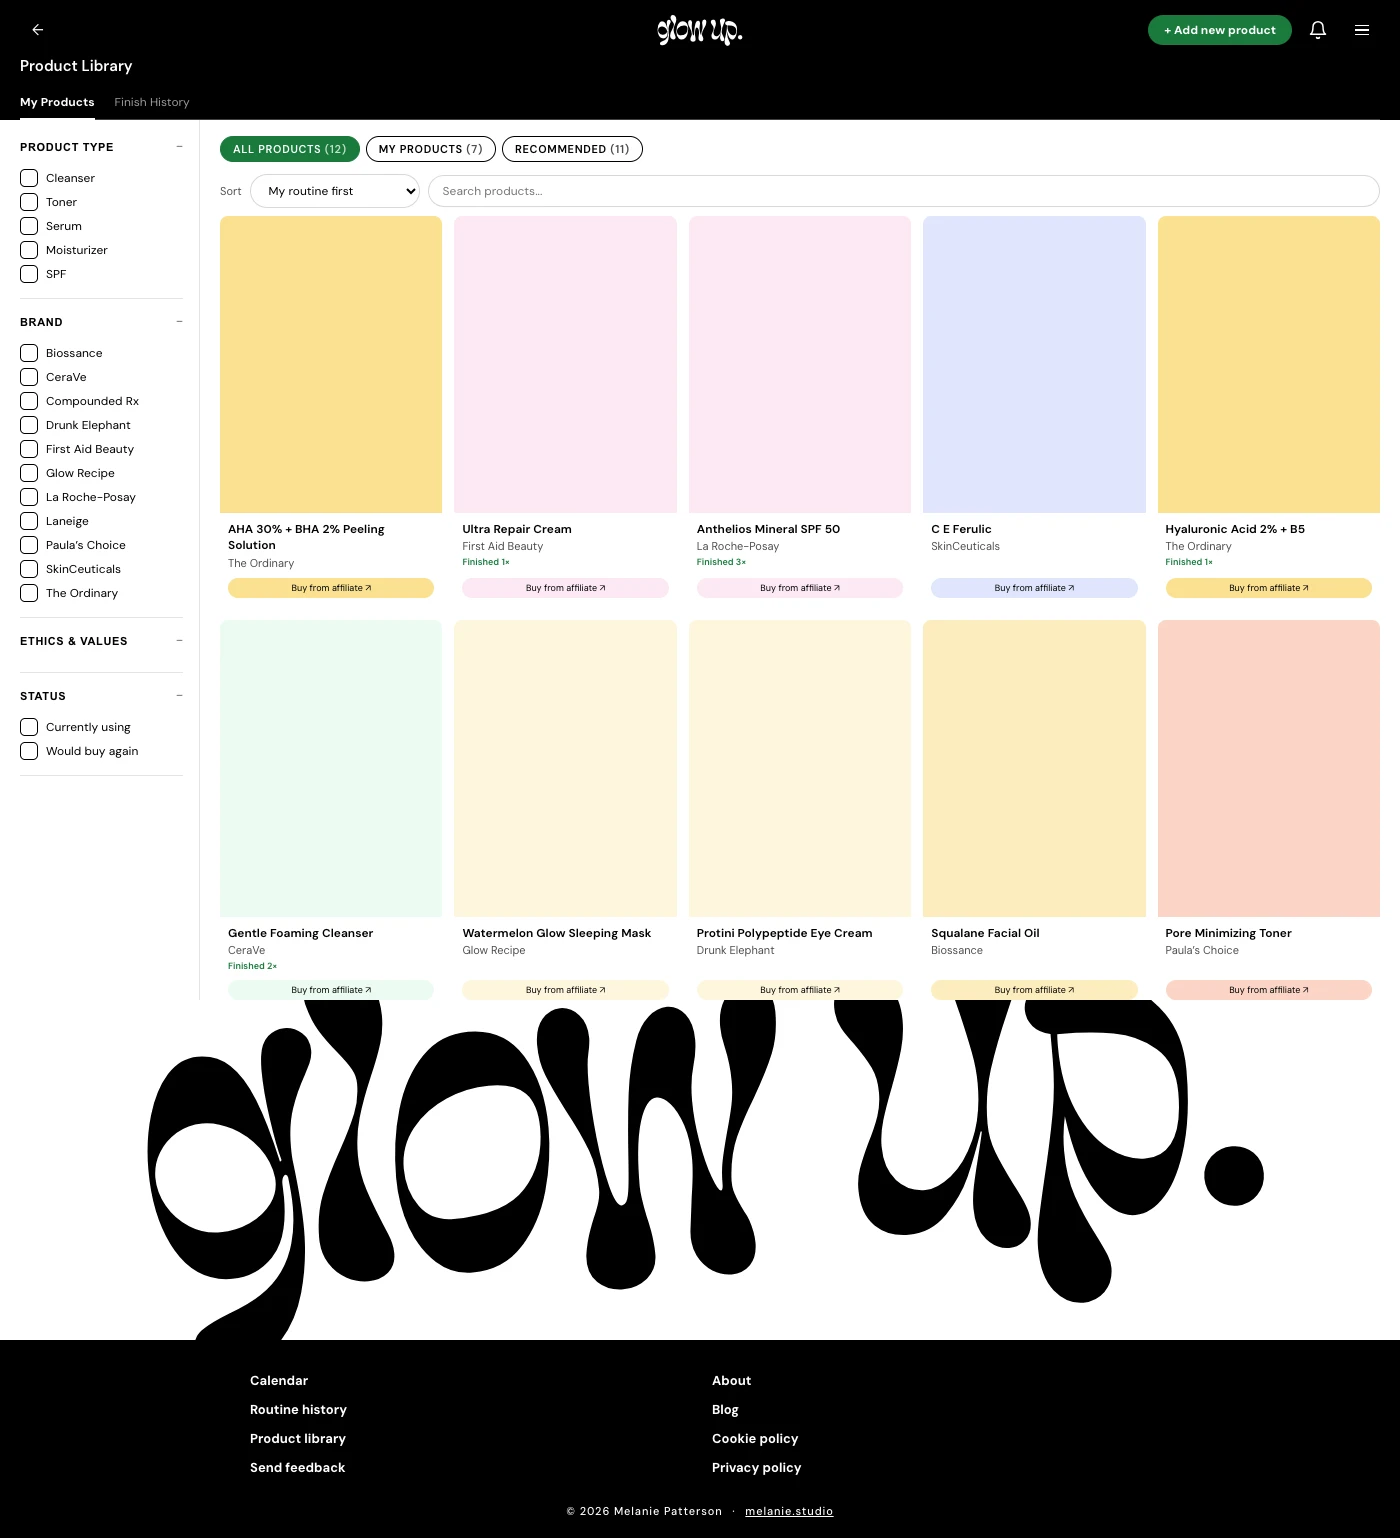
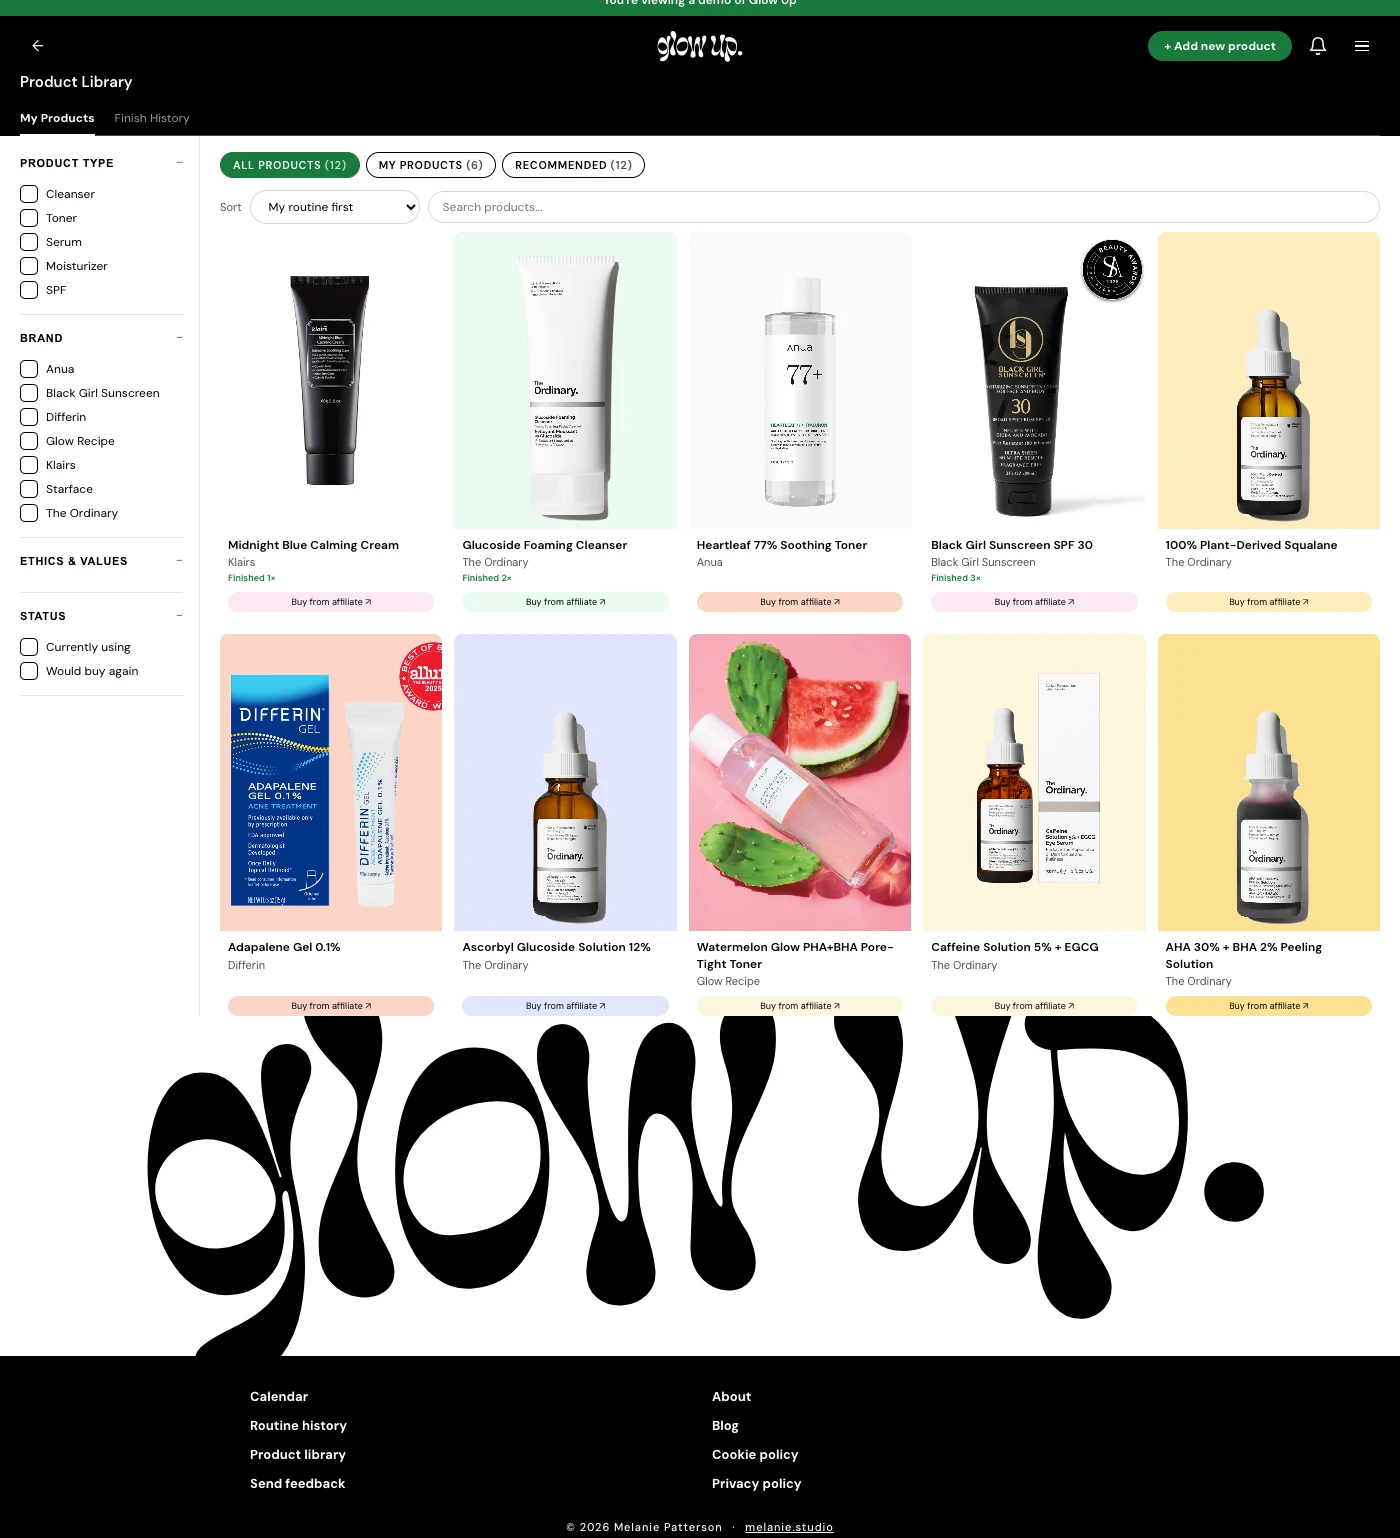
Replace all demo products with real BDS-compliant catalog items
Every product in the GlowUp demo now maps to a real, is_catalog=true
AND bds_compliant=true row from the products table (name/brand/image
sourced from a live Supabase export), replacing the prior mix of
fictional brands and two non-compliant real products (Rx tretinoin,
La Roche-Posay SPF, SkinCeuticals vitamin C). Product IDs stay stable
so routine_periods/user_product_data/product_finishes cross-refs keep
working. routine_periods[0].active_name moves from 'tretinoin' to
'adapalene' to match the swapped-in Differin product — the "Tretinoin
Onboarding" program name/slug is untouched since it's real, hardcoded
app copy (matched by exact slug in programColors.js/GlowUpCalendar.jsx),
not demo-only content. Recaptured the product library screenshot to
show the real photos.

diff --git a/apps/glowup/src/demoData.js b/apps/glowup/src/demoData.js
@@ -64,18 +64,18 @@ const user_programs = [
 ]
 
 const products = [
-  { id: 'pr-cleanser', name: 'Gentle Foaming Cleanser', brand: 'CeraVe', category: 'cleanser', image_url: null, purchase_url: 'https://example.com', bds_compliant: true, effectiveness_avg: 4.5, tags: ['fragrance-free'], notes: '', ingredient_category: '', ingredient_form: '', is_catalog: true, user_id: null },
-  { id: 'pr-tret', name: 'Tretinoin 0.025%', brand: 'Compounded Rx', category: 'active', image_url: null, purchase_url: '', bds_compliant: false, effectiveness_avg: 4.8, tags: ['prescription'], notes: 'From dermatologist', ingredient_category: 'retinoid', ingredient_form: 'cream', is_catalog: false, user_id: DEMO_USER_ID },
-  { id: 'pr-moisturizer', name: 'Ultra Repair Cream', brand: 'First Aid Beauty', category: 'moisturizer', image_url: null, purchase_url: 'https://example.com', bds_compliant: true, effectiveness_avg: 4.6, tags: ['barrier-repair'], notes: '', ingredient_category: '', ingredient_form: '', is_catalog: true, user_id: null },
-  { id: 'pr-spf', name: 'Anthelios Mineral SPF 50', brand: 'La Roche-Posay', category: 'spf', image_url: null, purchase_url: 'https://example.com', bds_compliant: false, effectiveness_avg: 4.4, tags: ['mineral'], notes: '', ingredient_category: '', ingredient_form: '', is_catalog: true, user_id: null },
-  { id: 'pr-vitc', name: 'C E Ferulic', brand: 'SkinCeuticals', category: 'active', image_url: null, purchase_url: 'https://example.com', bds_compliant: false, effectiveness_avg: 4.7, tags: ['vitamin-c'], notes: '', ingredient_category: 'antioxidant', ingredient_form: 'serum', is_catalog: true, user_id: null },
+  { id: 'pr-cleanser', name: 'Glucoside Foaming Cleanser', brand: 'The Ordinary', category: 'cleanser', image_url: 'https://brcjhshptisevcndqavz.supabase.co/storage/v1/object/public/product-images/rdn-glucoside-foaming-cleanser-150ml.webp', purchase_url: 'https://example.com', bds_compliant: true, effectiveness_avg: 4.5, tags: ['fragrance-free'], notes: '', ingredient_category: '', ingredient_form: '', is_catalog: true, user_id: null },
+  { id: 'pr-tret', name: 'Adapalene Gel 0.1%', brand: 'Differin', category: 'active', image_url: 'https://brcjhshptisevcndqavz.supabase.co/storage/v1/object/public/product-images/differin-0.1-GEL15GTube-Carton.webp', purchase_url: 'https://example.com', bds_compliant: true, effectiveness_avg: 4.8, tags: [], notes: '', ingredient_category: 'retinoid', ingredient_form: 'gel', is_catalog: true, user_id: null },
+  { id: 'pr-moisturizer', name: 'Midnight Blue Calming Cream', brand: 'Klairs', category: 'moisturizer', image_url: 'https://brcjhshptisevcndqavz.supabase.co/storage/v1/object/public/product-images/Midnight-Blue-Calming-Cream_60g600x700-PD.jpg', purchase_url: 'https://example.com', bds_compliant: true, effectiveness_avg: 4.6, tags: ['barrier-repair'], notes: '', ingredient_category: '', ingredient_form: '', is_catalog: true, user_id: null },
+  { id: 'pr-spf', name: 'Black Girl Sunscreen SPF 30', brand: 'Black Girl Sunscreen', category: 'spf', image_url: 'https://brcjhshptisevcndqavz.supabase.co/storage/v1/object/public/product-images/bgs-spf30.webp', purchase_url: 'https://example.com', bds_compliant: true, effectiveness_avg: 4.4, tags: [], notes: '', ingredient_category: '', ingredient_form: '', is_catalog: true, user_id: null },
+  { id: 'pr-vitc', name: 'Ascorbyl Glucoside Solution 12%', brand: 'The Ordinary', category: 'serum', image_url: 'https://brcjhshptisevcndqavz.supabase.co/storage/v1/object/public/product-images/rdn-ascorbyl-glucoside-solution-12pct-30ml.webp', purchase_url: 'https://example.com', bds_compliant: true, effectiveness_avg: 4.7, tags: ['vitamin-c'], notes: '', ingredient_category: 'antioxidant', ingredient_form: 'serum', is_catalog: true, user_id: null },
   { id: 'pr-hydrating', name: 'Hyaluronic Acid 2% + B5', brand: 'The Ordinary', category: 'serum', image_url: 'https://brcjhshptisevcndqavz.supabase.co/storage/v1/object/public/product-images/ord-hyaluronic-acid-2pct-B5-30ml-Clr-Acu.webp', purchase_url: 'https://example.com', bds_compliant: true, effectiveness_avg: 4.1, tags: ['budget'], notes: '', ingredient_category: 'humectant', ingredient_form: 'serum', is_catalog: true, user_id: null },
-  { id: 'pr-toner', name: 'Pore Minimizing Toner', brand: 'Paula’s Choice', category: 'toner', image_url: null, purchase_url: 'https://example.com', bds_compliant: true, effectiveness_avg: 4.0, tags: [], notes: '', ingredient_category: '', ingredient_form: '', is_catalog: true, user_id: null },
-  { id: 'pr-eye', name: 'Protini Polypeptide Eye Cream', brand: 'Drunk Elephant', category: 'eye_cream', image_url: null, purchase_url: 'https://example.com', bds_compliant: true, effectiveness_avg: 4.3, tags: [], notes: '', ingredient_category: '', ingredient_form: '', is_catalog: true, user_id: null },
+  { id: 'pr-toner', name: 'Heartleaf 77% Soothing Toner', brand: 'Anua', category: 'toner', image_url: 'https://brcjhshptisevcndqavz.supabase.co/storage/v1/object/public/product-images/anua-us-toner-heartleaf-77-soothing-toner-1239193744.webp', purchase_url: 'https://example.com', bds_compliant: true, effectiveness_avg: 4.0, tags: [], notes: '', ingredient_category: '', ingredient_form: '', is_catalog: true, user_id: null },
+  { id: 'pr-eye', name: 'Caffeine Solution 5% + EGCG', brand: 'The Ordinary', category: 'eye_cream', image_url: 'https://brcjhshptisevcndqavz.supabase.co/storage/v1/object/public/product-images/ORD-Product-Box-Caff-Sol-5pct-ECCG-Eye-Serum.webp', purchase_url: 'https://example.com', bds_compliant: true, effectiveness_avg: 4.3, tags: [], notes: '', ingredient_category: '', ingredient_form: '', is_catalog: true, user_id: null },
   { id: 'pr-exfoliant', name: 'AHA 30% + BHA 2% Peeling Solution', brand: 'The Ordinary', category: 'exfoliant', image_url: 'https://brcjhshptisevcndqavz.supabase.co/storage/v1/object/public/product-images/rdn-aha-30pct-bha-2pct-peeling-solution-30ml.webp', purchase_url: 'https://example.com', bds_compliant: true, effectiveness_avg: 4.2, tags: ['strong'], notes: 'Weekly only', ingredient_category: 'exfoliant', ingredient_form: 'liquid', is_catalog: true, user_id: null },
-  { id: 'pr-oil', name: 'Squalane Facial Oil', brand: 'Biossance', category: 'facial_oil', image_url: null, purchase_url: 'https://example.com', bds_compliant: true, effectiveness_avg: 4.4, tags: [], notes: '', ingredient_category: '', ingredient_form: '', is_catalog: true, user_id: null },
-  { id: 'pr-mask', name: 'Watermelon Glow Sleeping Mask', brand: 'Glow Recipe', category: 'mask', image_url: null, purchase_url: 'https://example.com', bds_compliant: true, effectiveness_avg: 4.0, tags: ['weekly'], notes: '', ingredient_category: '', ingredient_form: '', is_catalog: true, user_id: null },
-  { id: 'pr-lip', name: 'Lip Sleeping Mask', brand: 'Laneige', category: 'lip_care', image_url: null, purchase_url: 'https://example.com', bds_compliant: true, effectiveness_avg: 4.6, tags: [], notes: '', ingredient_category: '', ingredient_form: '', is_catalog: true, user_id: null },
+  { id: 'pr-oil', name: '100% Plant-Derived Squalane', brand: 'The Ordinary', category: 'facial_oil', image_url: 'https://brcjhshptisevcndqavz.supabase.co/storage/v1/object/public/product-images/rdn-100pct-plant-derived-squalane-30ml.webp', purchase_url: 'https://example.com', bds_compliant: true, effectiveness_avg: 4.4, tags: [], notes: '', ingredient_category: '', ingredient_form: '', is_catalog: true, user_id: null },
+  { id: 'pr-mask', name: 'Watermelon Glow PHA+BHA Pore-Tight Toner', brand: 'Glow Recipe', category: 'toner', image_url: 'https://brcjhshptisevcndqavz.supabase.co/storage/v1/object/public/product-images/PDP_IMAGES_Watermelon-Glow-PHA_BHA-Pore-Tight-Toner-5_8726c95e-05a9-4c53-af63-80a8b9926ae7.webp', purchase_url: 'https://example.com', bds_compliant: true, effectiveness_avg: 4.0, tags: ['weekly'], notes: '', ingredient_category: '', ingredient_form: '', is_catalog: true, user_id: null },
+  { id: 'pr-lip', name: 'Hydro-Stars Acne Patches', brand: 'Starface', category: 'spot_treatment', image_url: 'https://brcjhshptisevcndqavz.supabase.co/storage/v1/object/public/product-images/Starface-Hydro-Star-Salicylic-Acid-Patches-Big-Blue-Compact-32ct_4dee4b16-3c5a-42da-b329-4ba43ae710b9.0861787b421536a013dd691215dcaefe.avif', purchase_url: 'https://example.com', bds_compliant: true, effectiveness_avg: 4.6, tags: [], notes: '', ingredient_category: '', ingredient_form: '', is_catalog: true, user_id: null },
 ]
 
 const user_product_data = [
@@ -95,7 +95,7 @@ const product_finishes = [
 const routine_periods = [
   {
     id: 'rp-1', user_id: DEMO_USER_ID, start_date: daysAgo(19), end_date: null,
-    active_name: 'tretinoin', tret_enabled: true, tret_frequency: 2, tret_start_date: daysAgo(19),
+    active_name: 'adapalene', tret_enabled: true, tret_frequency: 2, tret_start_date: daysAgo(19),
     tret_frequency_history: [{ start_date: daysAgo(19), frequency: 2 }],
     secondary_actives: [], bha_enabled: false, bha_frequency: 1, bha_start_day: 6,
     products: { cleanser: 'pr-cleanser', moisturizer: 'pr-moisturizer', spf: 'pr-spf', active: 'pr-tret' },
